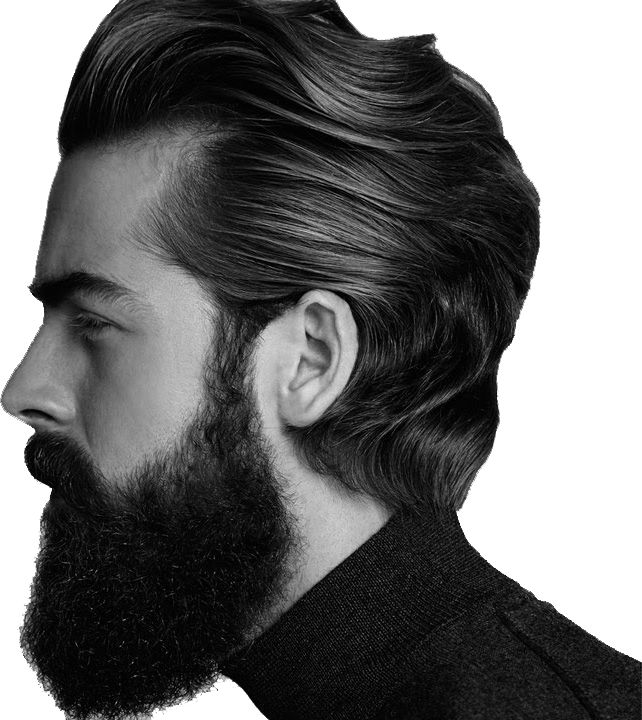
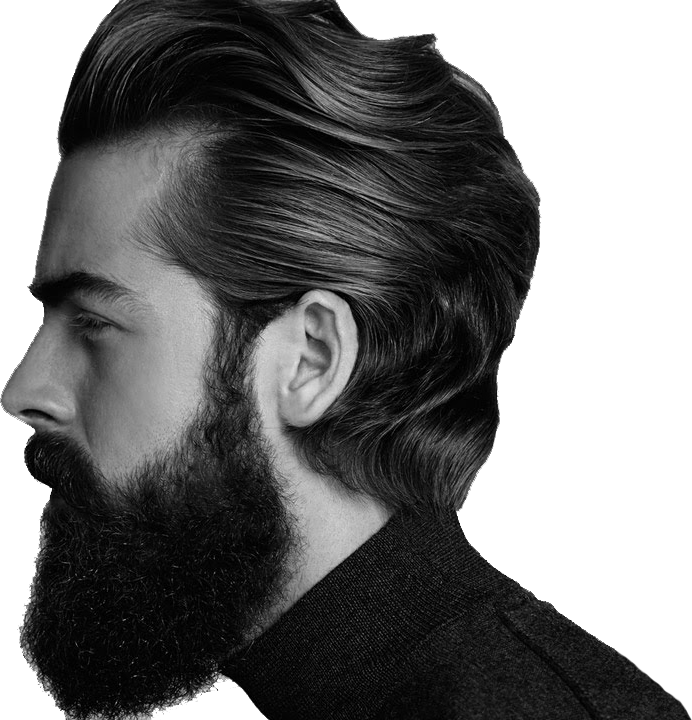
added bloks info in gallery and fix header man img

diff --git a/css/main.css b/css/main.css
@@ -18,8 +18,8 @@ a{
     grid-area: header;
     height: 500px;
     background-image: url('../img/header.png');
-    background-color: #aaa;
-    background-position: right; 
+    background-color: #bebebe;
+    background-position: 95% center; 
     background-size: contain; 
     background-repeat: no-repeat; 
     display: grid;
@@ -29,7 +29,7 @@ a{
 #nav{
     grid-row: 1;
     display: grid;
-    grid-template-columns: 1fr 6fr;
+    grid-template-columns: 1fr 6fr 3fr;
 }
 #nav img{
     margin: 10px 50px;
@@ -59,7 +59,7 @@ a{
     display: flex;
     flex-direction: column;
     justify-content: center;
-    margin: 0 15%;
+    margin: 0 10%;
     font-family: Arial, Helvetica, sans-serif;
 }
 #header-content h2{
@@ -86,11 +86,33 @@ a{
 }
 
 .content-inner{
+    display: flex;
+    flex-direction: column;
+    justify-content: flex-end;
+    text-align: center;
     height: 500px;
-    background-color: tomato;
 }
-#content-1, #content-3, #content-5, #content-7, #content-9, #content-11, #content-13{
-    background-color: #fff;
+.content-inner p, 
+.content-inner h3{
+    margin: 0;
+    font-family: Arial, Helvetica, sans-serif;
+    color: #fff; 
+}
+.content-inner h3{
+    font-size: 28px;
+    color: #181818
+}
+.content-inner p{
+    margin-bottom: 110px;
+    padding: 35px 5%;
+    font-size: 18px;
+    color: #565656
+}
+#content-1{
+    background-image: url('../img/icon/like.png');
+    background-position: center 20%;
+    background-size: 15%;
+    background-repeat: no-repeat;   
 }
 #content-2{
     background-image: url('../img/man-1.jpg');
@@ -98,11 +120,23 @@ a{
     background-size: cover;
     background-repeat: no-repeat;
 }
+#content-3{
+    background-image: url('../img/icon/flash.png');
+    background-position: center 20%;
+    background-size: 15%;
+    background-repeat: no-repeat;   
+}
 #content-4{
     background-image: url('../img/girl-1.jpg');
     background-position: center;
     background-size: cover;
     background-repeat: no-repeat;
+}
+#content-5{
+    background-image: url('../img/icon/idea.png');
+    background-position: center 20%;
+    background-size: 15%;
+    background-repeat: no-repeat;   
 }
 #content-6{
     background-image: url('../img/man-2.jpg');
@@ -110,17 +144,35 @@ a{
     background-size: cover;
     background-repeat: no-repeat;
 }
+#content-7{
+    background-image: url('../img/icon/search.png');
+    background-position: center 20%;
+    background-size: 15%;
+    background-repeat: no-repeat;   
+}
 #content-8{
     background-image: url('../img/girl-2.jpg');
     background-position: bottom;
     background-size: cover;
     background-repeat: no-repeat;
 }
+#content-9{
+    background-image: url('../img/icon/network.png');
+    background-position: center 20%;
+    background-size: 15%;
+    background-repeat: no-repeat;   
+}
 #content-10{
     background-image: url('../img/man-3.jpg');
     background-position: center;
     background-size: cover;
     background-repeat: no-repeat;
+}
+#content-11{
+    background-image: url('../img/icon/photo-camera.png');
+    background-position: center 20%;
+    background-size: 15%;
+    background-repeat: no-repeat;   
 }
 #content-12{
     background-image: url('../img/girl-3.jpg');

diff --git a/index.php b/index.php
@@ -30,41 +30,35 @@
             
             <section id="content">
                 <div class="content-inner" id="content-1">
-
+                    <h3>Lorem ipsum dolor</h3>
+                    <p>Lorem ipsum dolor sit amet consectetur adipisicing elit. Modi ullam unde neque necessitatibus odit voluptates explicabo eligendi aperiam doloremque accusantium!</p>
                 </div>
-                <div class="content-inner" id="content-2">
-
-                </div>
+                <div class="content-inner" id="content-2"></div>
                 <div class="content-inner" id="content-3">
-
+                    <h3>Lorem ipsum dolor</h3>
+                    <p>Lorem ipsum dolor sit amet consectetur adipisicing elit. Modi ullam unde neque necessitatibus odit voluptates explicabo eligendi aperiam doloremque accusantium!</p>
                 </div>
-                <div class="content-inner" id="content-4">
-
-                </div>
+                <div class="content-inner" id="content-4"></div>
                 <div class="content-inner" id="content-5">
-
+                    <h3>Lorem ipsum dolor</h3>
+                    <p>Lorem ipsum dolor sit amet consectetur adipisicing elit. Modi ullam unde neque necessitatibus odit voluptates explicabo eligendi aperiam doloremque accusantium!</p>
                 </div>
-                <div class="content-inner" id="content-6">
-
-                </div>
+                <div class="content-inner" id="content-6"></div>
                 <div class="content-inner" id="content-7">
-
+                    <h3>Lorem ipsum dolor</h3>
+                    <p>Lorem ipsum dolor sit amet consectetur adipisicing elit. Modi ullam unde neque necessitatibus odit voluptates explicabo eligendi aperiam doloremque accusantium!</p>
                 </div>
-                <div class="content-inner" id="content-8">
-
-                </div>
+                <div class="content-inner" id="content-8"></div>
                 <div class="content-inner" id="content-9">
-
+                    <h3>Lorem ipsum dolor</h3>
+                    <p>Lorem ipsum dolor sit amet consectetur adipisicing elit. Modi ullam unde neque necessitatibus odit voluptates explicabo eligendi aperiam doloremque accusantium!</p>
                 </div>
-                <div class="content-inner" id="content-10">
-
-                </div>
+                <div class="content-inner" id="content-10"></div>
                 <div class="content-inner" id="content-11">
-
+                    <h3>Lorem ipsum dolor</h3>
+                    <p>Lorem ipsum dolor sit amet consectetur adipisicing elit. Modi ullam unde neque necessitatibus odit voluptates explicabo eligendi aperiam doloremque accusantium!</p>
                 </div>
-                <div class="content-inner" id="content-12">
-
-                </div>
+                <div class="content-inner" id="content-12"></div>
             </section>
         
             <footer id="footer">
